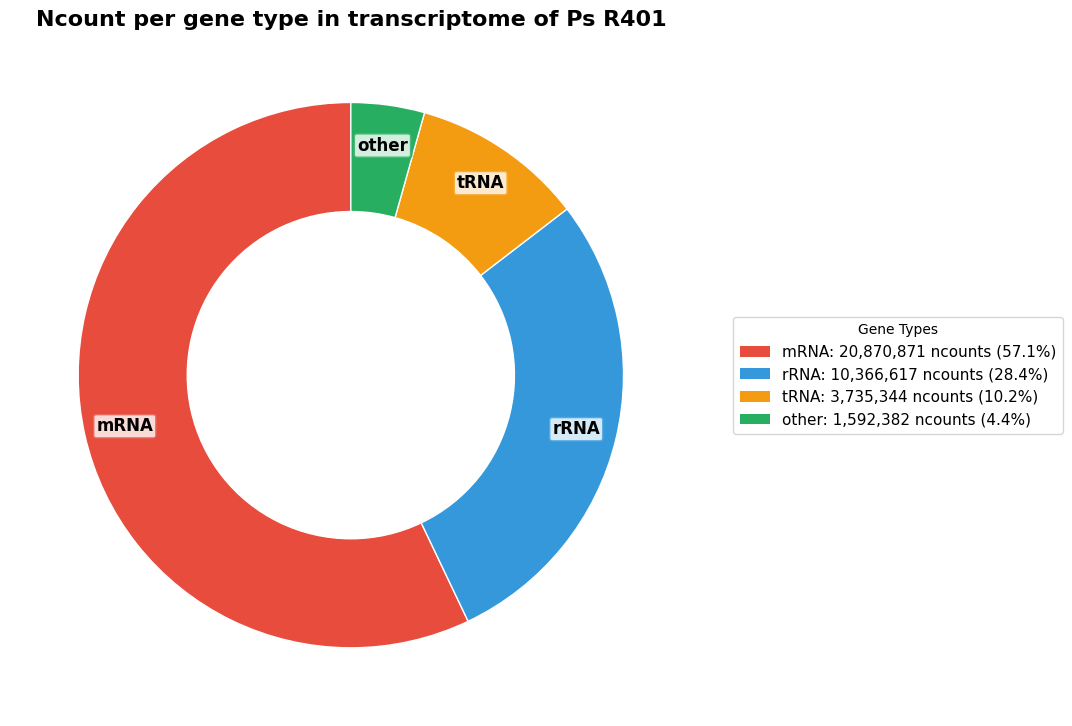
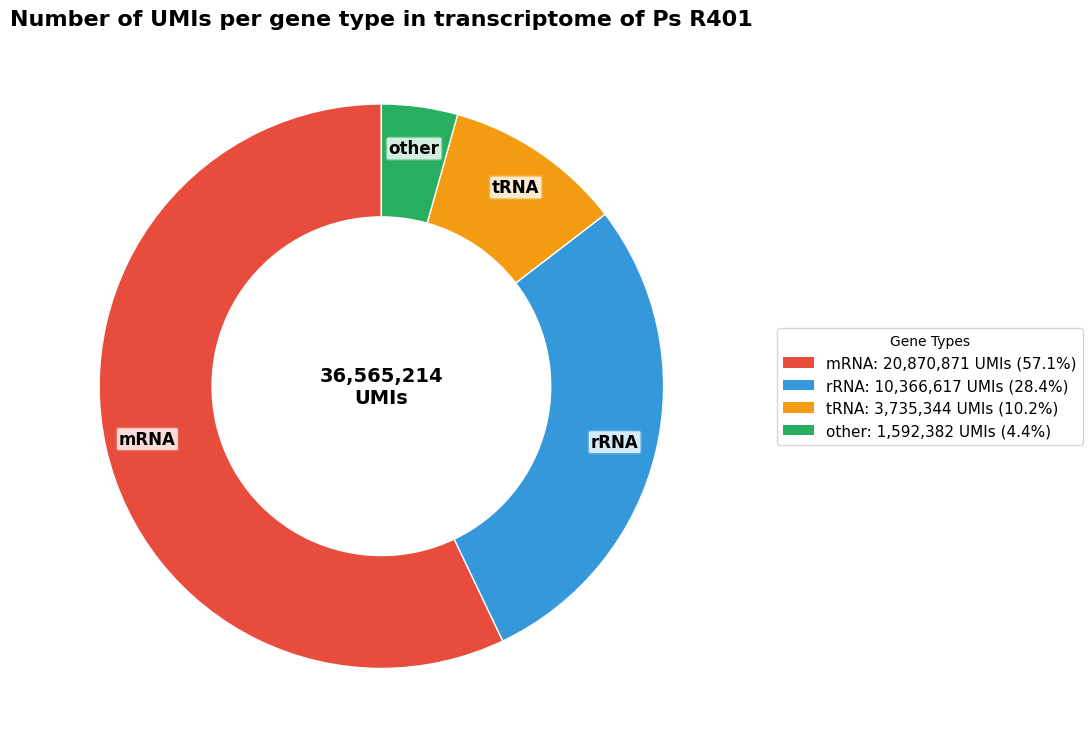
Update Materials and Methods and Results chapters with refined data quality metrics and analysis
- Corrected author citation in the doublet estimation section of the Materials and Methods chapter.
- Enhanced the Results chapter by clarifying the summary of STARsolo analysis metrics, including detailed descriptions of sequencing quality and gene mapping statistics.
- Improved the clarity of tables and figures to accurately reflect the updated metrics and findings, ensuring comprehensive representation of data quality and analysis outcomes.
- Added new insights regarding the implications of sequencing saturation and the necessity for deeper sequencing to capture the full complexity of the transcriptome.

diff --git a/docs/chapters/03-Results.html b/docs/chapters/03-Results.html
@@ -20,7 +20,27 @@ ul.task-list li input[type="checkbox"] {
   margin: 0 0.8em 0.2em -1em; /* quarto-specific, see https://github.com/quarto-dev/quarto-cli/issues/4556 */ 
   vertical-align: middle;
 }
-</style>
+/* CSS for citations */
+div.csl-bib-body { }
+div.csl-entry {
+  clear: both;
+  margin-bottom: 0em;
+}
+.hanging-indent div.csl-entry {
+  margin-left:2em;
+  text-indent:-2em;
+}
+div.csl-left-margin {
+  min-width:2em;
+  float:left;
+}
+div.csl-right-inline {
+  margin-left:2em;
+  padding-left:1em;
+}
+div.csl-indent {
+  margin-left: 2em;
+}</style>
 
 
 <script src="../site_libs/quarto-nav/quarto-nav.js"></script>
@@ -312,7 +332,7 @@ Figure&nbsp;3.1: Artifacts content of the sublibrary BC_0076 before and after tr
 <div id="tbl-summary-trimming" class="quarto-layout-panel anchored">
 <figure class="quarto-float quarto-float-tbl figure">
 <figcaption class="quarto-float-caption-top quarto-float-caption quarto-float-tbl" id="tbl-summary-trimming-caption-0ceaefa1-69ba-4598-a22c-09a6ac19f8ca">
-Table&nbsp;3.1: Summary of sequence metrics before and after trimming of each sublibrary with Cutadapt and Fastp
+Table&nbsp;3.1: Summary of sequence metrics before and after trimming of each sublibrary with Cutadapt and Fastp (R1 read length metrics)
 </figcaption>
 <div aria-describedby="tbl-summary-trimming-caption-0ceaefa1-69ba-4598-a22c-09a6ac19f8ca">
 <div class="quarto-layout-row">
@@ -452,92 +472,76 @@ Click to view MultiQC report R2 after trimming
 </details>
 </section>
 </section>
-<section id="starsolo-analysis-and-data-quality-assessment" class="level3">
-<h3 class="anchored" data-anchor-id="starsolo-analysis-and-data-quality-assessment">STARsolo Analysis and Data Quality Assessment</h3>
-<p>Our single-cell RNA-seq data was processed using STARsolo, which provided comprehensive quality metrics and mapping statistics. The analysis revealed excellent data quality suitable for investigating division of labor patterns in <em>P. brassicacearum</em> populations.</p>
-<section id="starsolo-analysis-results" class="level4">
-<h4 class="anchored" data-anchor-id="starsolo-analysis-results">STARsolo Analysis Results</h4>
+<section id="transcriptome-description-after-starsolo-processing" class="level3">
+<h3 class="anchored" data-anchor-id="transcriptome-description-after-starsolo-processing">Transcriptome Description after STARsolo processing</h3>
+<p>Following the successful preprocessing and trimming of our sequencing data, we performed alignment against the reference genome of <em>P. brassicacearum R401</em> (<a href="#fig-genome" class="quarto-xref">Figure&nbsp;<span>3.2 (a)</span></a>). The barcode reading and quantification by STARsolo provided comprehensive quality metrics and mapping statistics.</p>
 <div id="tbl-starsolo-comprehensive" class="quarto-layout-panel anchored">
 <figure class="quarto-float quarto-float-tbl figure">
 <figcaption class="quarto-float-caption-top quarto-float-caption quarto-float-tbl" id="tbl-starsolo-comprehensive-caption-0ceaefa1-69ba-4598-a22c-09a6ac19f8ca">
-Table&nbsp;3.2: Comprehensive STARsolo analysis results
+Table&nbsp;3.2: Summary of metrics obtained with STARsolo after barcode-UMI reading and alignment with the reference genome of <em>P. brassicacearum R401</em>
 </figcaption>
 <div aria-describedby="tbl-starsolo-comprehensive-caption-0ceaefa1-69ba-4598-a22c-09a6ac19f8ca">
 <div class="quarto-layout-row">
 <div class="quarto-layout-cell" style="flex-basis: 100.0%;justify-content: center;">
 <table class="caption-top table">
 <colgroup>
-<col style="width: 55%">
-<col style="width: 23%">
-<col style="width: 20%">
+<col style="width: 70%">
+<col style="width: 29%">
 </colgroup>
 <thead>
 <tr class="header">
 <th style="text-align: left;">Metric</th>
 <th style="text-align: left;">Count/Percentage</th>
-<th style="text-align: left;">Interpretation</th>
 </tr>
 </thead>
 <tbody>
 <tr class="odd">
 <td style="text-align: left;"><strong>Total Reads Processed</strong></td>
 <td style="text-align: left;">1,284,475,633</td>
-<td style="text-align: left;">High sequencing depth</td>
 </tr>
 <tr class="even">
-<td style="text-align: left;"><strong>Reads With Valid Barcodes</strong></td>
-<td style="text-align: left;">1,099,327,755</td>
-<td style="text-align: left;">85.58% of total reads</td>
+<td style="text-align: left;"><strong>N_reads with valid barcodes</strong></td>
+<td style="text-align: left;">1,099,327,755 (<strong>85.58%</strong>)</td>
 </tr>
 <tr class="odd">
 <td style="text-align: left;">- Exact Barcode Match</td>
-<td style="text-align: left;">1,046,121,284</td>
-<td style="text-align: left;">81.44%</td>
+<td style="text-align: left;">-&gt; 1,046,121,284 (<strong>81.44%</strong>)</td>
 </tr>
 <tr class="even">
 <td style="text-align: left;">- Single Mismatch Barcode</td>
-<td style="text-align: left;">53,206,471</td>
-<td style="text-align: left;">4.14%</td>
+<td style="text-align: left;">-&gt; 53,206,471 (<strong>4.14%</strong>)</td>
 </tr>
 <tr class="odd">
 <td style="text-align: left;"><strong>Q30 Bases in RNA reads</strong></td>
 <td style="text-align: left;">95.79%</td>
-<td style="text-align: left;">Outstanding sequencing quality</td>
 </tr>
 <tr class="even">
 <td style="text-align: left;"><strong>Q30 Bases in CB+UMI</strong></td>
 <td style="text-align: left;">95.51%</td>
-<td style="text-align: left;">High barcode/UMI quality</td>
 </tr>
 <tr class="odd">
-<td style="text-align: left;"><strong>GeneFull Mapping (Unique + Multiple)</strong></td>
-<td style="text-align: left;">971,519,404 (75.64%)</td>
-<td style="text-align: left;">Good gene-level coverage</td>
+<td style="text-align: left;"><strong>Unique Gene Mapping</strong></td>
+<td style="text-align: left;">34,593,349 (2.69%)</td>
 </tr>
 <tr class="even">
-<td style="text-align: left;"><strong>Unique GeneFull Mapping</strong></td>
-<td style="text-align: left;">34,593,349 (2.69%)</td>
-<td style="text-align: left;">Expected low rate due to overlapping genes</td>
+<td style="text-align: left;"><strong>Unique + Multiple Gene Mapping</strong></td>
+<td style="text-align: left;">971,519,404 (75.64%)</td>
 </tr>
 <tr class="odd">
-<td style="text-align: left;"><strong>Total GeneFull Detected</strong></td>
-<td style="text-align: left;">6,035</td>
-<td style="text-align: left;">Comprehensive gene coverage</td>
+<td style="text-align: left;"><strong>Total Genes Detected</strong></td>
+<td style="text-align: left;">6,035 on the total of 6,249 genes (96.57%)</td>
 </tr>
 <tr class="even">
 <td style="text-align: left;"><strong>Cell Barcodes Detected</strong></td>
 <td style="text-align: left;">699,355</td>
-<td style="text-align: left;">Total unique barcodes</td>
 </tr>
 <tr class="odd">
-<td style="text-align: left;"><strong>Total UMIs Detected</strong></td>
-<td style="text-align: left;">34,258,961</td>
-<td style="text-align: left;">Good molecular diversity</td>
+<td style="text-align: left;"><strong>N_umi</strong></td>
+<td style="text-align: left;">36,565,214</td>
 </tr>
 <tr class="even">
 <td style="text-align: left;"><strong>Sequencing Saturation</strong></td>
 <td style="text-align: left;">0.97%</td>
-<td style="text-align: left;">Very low - potential for deeper sequencing</td>
 </tr>
 </tbody>
 </table>
@@ -546,30 +550,32 @@ Table&nbsp;3.2: Comprehensive STARsolo analysis results
 </div>
 </figure>
 </div>
-<p><strong>Sequencing Saturation Explanation:</strong> Sequencing saturation measures how completely we have sampled the transcriptome. It is calculated as:</p>
-<pre><code>Saturation = 1 - (N_umi / N_reads)</code></pre>
-<p>where: - N_umi = number of unique CB/UMI/gene combinations - N_reads = number of reads with valid CB/UMI/gene</p>
-<p>A saturation of 0.97% indicates we could sequence much deeper to capture more unique molecules.</p>
-<p><strong>Note</strong>: The low unique mapping rates (3.64% to genome, 2.69% to genes) are typical for bacterial RNA-seq due to the compact nature of bacterial genomes with overlapping coding sequences. The high multiple mapping rate reflects the complexity of bacterial transcriptomes, which is particularly relevant for studying division of labor as it captures the full transcriptional landscape.</p>
-</section>
-<section id="data-quality-summary-for-division-of-labor-analysis" class="level4">
-<h4 class="anchored" data-anchor-id="data-quality-summary-for-division-of-labor-analysis">Data Quality Summary for Division of Labor Analysis</h4>
-<p>The STARsolo results provide strong evidence that our data is well-suited for investigating division of labor in <em>P. brassicacearum</em>:</p>
-<ol type="1">
-<li><strong>Comprehensive Gene Detection</strong>: 6,035 genes detected across all cells captures the full transcriptional diversity besoin de verif apres le nombre de genes detectés par cellules , nombre umi … mais avant doit filtrer les cellules</li>
-<li><strong>Excellent Technical Quality</strong>: &gt;95% Q30 scores and 85.58% valid barcodes indicate minimal technical noise</li>
-<li><strong>Robust Mapping</strong>: 75.64% of reads mapped to genes, providing comprehensive transcriptome coverage</li>
-</ol>
-<p>The low sequencing saturation (0.97%) suggests we could potentially sequence deeper to capture more unique molecules, but the current depth is sufficient for robust division of labor analysis. The high proportion of multiple-mapped reads is expected for bacterial data and actually beneficial for capturing the full complexity of overlapping transcriptional units that may be involved in division of labor processes.</p>
-</section>
-<section id="genefull-vs-gene-mapping-strategy" class="level4">
-<h4 class="anchored" data-anchor-id="genefull-vs-gene-mapping-strategy">GeneFull vs Gene Mapping Strategy</h4>
-<p>We employed the <strong>GeneFull mapping</strong> approach, which includes: - Coding sequences (CDS) - Untranslated regions (UTRs) - Non-coding RNAs - Intergenic regions</p>
-<p>This broader mapping strategy is particularly valuable for bacterial division of labor studies as it captures regulatory elements, non-coding RNAs, and intergenic regions that may play crucial roles in phenotypic differentiation and specialization within bacterial populations.</p>
-</section>
-</section>
-<section id="genome-and-transcriptome-description" class="level3">
-<h3 class="anchored" data-anchor-id="genome-and-transcriptome-description">Genome and Transcriptome Description</h3>
+<p><em>Metrics obtained with STARsolo after barcode-UMI reading and alignment with the reference genome of </em>P. brassicacearum R401<em>.</em></p>
+<p>The STARsolo analysis processed the 1.284 billion trimmed reads and successfully identified 1.099 billion reads with valid barcodes (85.58% of total reads), demonstrating excellent barcode quality (<a href="#tbl-starsolo-comprehensive" class="quarto-xref">Table&nbsp;<span>3.2</span></a>). Among these, 81.44% had exact barcode matches and 4.14% had single mismatches, indicating robust cell identification. The sequencing quality was outstanding with Q30 scores above 95% for both RNA reads and barcode/UMI sequences. This high percentage of valid barcodes falls within the expected range of 70-90% for successful experiments, as recommended by Gaisser et al.&nbsp;(2024) (<span class="citation" data-cites="gaisser2024"><sup><a href="06-References.html#ref-gaisser2024" role="doc-biblioref">1</a></sup></span>), indicating excellent library preparation and barcoding efficiency with no significant issues in the protocol optimization.</p>
+<p>Gene mapping analysis revealed that 75.64% of reads mapped to genes, with 2.69% showing unique mapping and the remainder showing multiple mapping, which is typical for bacterial genomes with overlapping genes and repeated sequences. The fraction of uniquely aligned reads (2.69%) falls within the expected range of 3-12% for bacterial samples (Gaisser et al.&nbsp;(<span class="citation" data-cites="gaisser2024"><sup><a href="06-References.html#ref-gaisser2024" role="doc-biblioref">1</a></sup></span>)). This value is influenced by the species-specific characteristics and experimental conditions.</p>
+<p>A total of 6,035 genes were detected across 699,355 unique cell barcodes, representing 96.6% of the 6,249 genes (<a href="#fig-genome" class="quarto-xref">Figure&nbsp;<span>3.2 (a)</span></a>) annotated in the <em>P. brassicacearum R401</em> genome, with one gene being automatically ignored by STARsolo due to poor annotation.</p>
+<p>The sequencing saturation, calculated as:</p>
+<p><span class="math display"> Sequencing\ Saturation = 1 - \frac{N_{\text{umi}}}{N_{\text{reads with valid barcodes}}} = 1 - \frac{36,565,214}{1,099,327,755} = 0.97\% </span></p>
+<ul>
+<li>Where:
+<ul>
+<li><span class="math inline">N_{\text{umi}}</span> = number of unique molecules detected, distinct combinations of Cell Barcode (CB) / UMI / gene</li>
+<li><span class="math inline">N_{\text{reads}}</span> = total number of reads with valid CB/UMI/gene combinations</li>
+</ul></li>
+</ul>
+<div class="callout callout-style-default callout-warning callout-titled">
+<div class="callout-header d-flex align-content-center">
+<div class="callout-icon-container">
+<i class="callout-icon"></i>
+</div>
+<div class="callout-title-container flex-fill">
+Warning
+</div>
+</div>
+<div class="callout-body-container callout-body">
+<p>This very low saturation indicates that we have captured only a small fraction of the total unique molecules in the transcriptome. According to Gaisser et al.&nbsp;(2024)<span class="citation" data-cites="gaisser2024"><sup><a href="06-References.html#ref-gaisser2024" role="doc-biblioref">1</a></sup></span>, a sequencing saturation of &lt;0.5 may indicate that more sequencing is required to capture all barcoded transcripts in the library, with a saturation value of ≥0.7 typically indicating sufficient coverage. Our saturation value of 0.97% falls well below these recommended thresholds, suggesting that <strong>our current sequencing depth may not be sufficient to capture the full complexity of the transcriptome</strong>. While the current sequencing depth of 1.284 billion reads provides substantial coverage, the low saturation indicates that we could potentially benefit from deeper sequencing to capture more unique transcripts and achieve better coverage of the transcriptional landscape.</p>
+</div>
+</div>
 <div id="fig-genome-transcriptome" class="quarto-layout-panel">
 <figure class="quarto-float quarto-float-fig figure">
 <div aria-describedby="fig-genome-transcriptome-caption-0ceaefa1-69ba-4598-a22c-09a6ac19f8ca">
@@ -601,11 +607,12 @@ Table&nbsp;3.2: Comprehensive STARsolo analysis results
 </div>
 </div>
 <figcaption class="quarto-float-caption-bottom quarto-float-caption quarto-float-fig" id="fig-genome-transcriptome-caption-0ceaefa1-69ba-4598-a22c-09a6ac19f8ca">
-Figure&nbsp;3.2: Genome and transcriptome description (obtained with fastqc)
+Figure&nbsp;3.2: Compositional analysis of <em>P. brassicacearum</em> R401 genome annotation and transcriptome distribution of different RNA types
 </figcaption>
 </figure>
 </div>
-<p>The genome and transcriptome composition analysis reveals the distribution of different RNA types in our <em>P. brassicacearum</em> samples. This information is crucial for understanding the transcriptional landscape and identifying potential division of labor patterns, as different RNA types may be differentially expressed across subpopulations.</p>
+<p>The genome and transcriptome composition analysis reveals the distribution of different RNA types in our <em>P. brassicacearum</em> sample. In the <a href="https://www.ncbi.nlm.nih.gov/datasets/gene/GCA_030064105.1/">annotated</a> genome of <em>P. brassicacearum</em> R401, we identified 6,100 mRNA genes (97.6% of total genes), 65 tRNA genes, 16 rRNA genes (0.3% of the genome) and 68 other genes. However, in the transcriptome analysis of our 36,565,214 UMIs, the distribution shows a different pattern: 57.1% correspond to mRNA transcripts (21 millions), while 28.4% are rRNA transcripts (representing approximately 10 millions UMIs), 10.2 % are tRNA transcripts (representing approximately 4 millions UMIs) and 4.4% are other genes (representing approximately 1.5 millions UMIs). This distribution concords with the well-established observation that rRNA and tRNA transcripts represent a large proportion of the bacterial transcriptome despite constituting only a small fraction of the genome, due to their high transcriptional activity and stability<span class="citation" data-cites="nishimura2025"><sup><a href="06-References.html#ref-nishimura2025" role="doc-biblioref">2</a></sup></span>.</p>
+<p>Before filtering, our dataset contained 699,355 unique cell barcodes, which is consistent with the expected large number of barcode combinations (&gt;800,000) that typically contain only a small number of transcripts. These likely represent trace amounts of barcode contamination present throughout the protocol, including potentially within the source oligonucleotide plates. These contaminating barcodes can be effectively filtered using barcode-rank or knee plot analysis, which we applied in our filtering strategy.</p>
 </section>
 <section id="cell-filtering-strategy" class="level3">
 <h3 class="anchored" data-anchor-id="cell-filtering-strategy">Cell Filtering Strategy</h3>
@@ -733,8 +740,24 @@ Table&nbsp;3.3: Cell-level expression metrics
 <p>In addition, we kept the highest-scored multimapping reads, assigning a fractional count based on the number of equally good alignments, because bacterial genomes are known to contain overlapping coding sequences. We then generated a matrix of gene counts for each cell (N-by-K matrix, with N cells and K genes).</p>
 <p>le choix de filtration sera discuté apres</p>
 <p>because the reads depth is different between : Stress condition (M9F) and non-stress condition (M9) et also between the 3 timepoints (T1, T2, T3) (voir figure, reuslttas comme deja observé chez )</p>
+<p>, which typically corresponds to the mRNA proportion in the library</p>
+<p>attention duplication des reads</p>
+<p>serait bien de tester chaque sublirbai starsolo independant</p>
+<p>The low saturation may be partially explained by the high complexity of the bacterial transcriptome and the large number of unique cell barcode combinations detected (699,355).</p>
+<p>Our results align well with the expected performance metrics for single-cell RNA-seq in bacteria.</p>
+<p>It is important to note that preliminary STARsolo tests without trimming yielded saturation values 0.94 <strong>&gt; 0.7</strong>, which would have met the Gaisser et al.&nbsp;(<span class="citation" data-cites="gaisser2024"><sup><a href="06-References.html#ref-gaisser2024" role="doc-biblioref">1</a></sup></span>) recommendation for adequate sequencing depth. However, these elevated saturation values were not due to superior sequencing quality but rather to less effectively trimmed reads that artificially affected the saturation ratio. The lower saturation observed in our final analysis with proper trimming (0.0097) actually reflects more accurate data quality assessment, as the trimming process removed sequencing artifacts and low-quality reads that would have otherwise inflated the saturation metric. This observation suggests that the interpretation of saturation values in the Gaisser et al.(<span class="citation" data-cites="gaisser2024"><sup><a href="06-References.html#ref-gaisser2024" role="doc-biblioref">1</a></sup></span>) study may need revision, as their trimming protocol reportedly left approximately 10% of TSO sequences remaining, which could have artificially inflated their saturation metrics. While our saturation value of 0.97% falls well below their recommended threshold of &gt;0.7, this difference likely reflects the superior quality of our trimming protocol rather than inadequate sequencing depth. The low saturation value (0.97%) indicates minimal redundancy in our sequencing data, suggesting that a substantial portion of the transcriptome remains unexplored. This implies that deeper sequencing could potentially capture additional unique transcripts and provide more comprehensive coverage of the transcriptional landscape.</p>
+<p>peut etre devoir verifier les 4 biblioteques pour comprendre les differences de duplication et voir si differences de satureation</p>
+<p>For our division of labor analysis focusing on mRNA expression patterns, these highly abundant non-coding RNAs will need to be filtered out to avoid masking subtle transcriptional differences between subpopulations. This information is crucial for understanding the transcriptional landscape and identifying potential division of labor patterns, as different RNA types may be differentially expressed across subpopulations.</p>
 
 
+<div id="refs" class="references csl-bib-body" data-entry-spacing="0" data-line-spacing="2" role="list" style="display: none">
+<div id="ref-gaisser2024" class="csl-entry" role="listitem">
+<div class="csl-left-margin">1. </div><div class="csl-right-inline">Gaisser, K. D. <em>et al.</em> <a href="https://doi.org/10.1038/s41596-024-01007-w">High-throughput single-cell transcriptomics of bacteria using combinatorial barcoding</a>. <em>Nature Protocols</em> <strong>19</strong>, 3048–3084 (2024).</div>
+</div>
+<div id="ref-nishimura2025" class="csl-entry" role="listitem">
+<div class="csl-left-margin">2. </div><div class="csl-right-inline">Nishimura, M., Takahashi, K. &amp; Hosokawa, M. Recent advances in single-cell RNA sequencing of bacteria: Techniques, challenges, and applications. <em>Journal of Bioscience and Bioengineering</em> (2025) doi:<a href="https://doi.org/10.1016/j.jbiosc.2025.01.008">10.1016/j.jbiosc.2025.01.008</a>.</div>
+</div>
+</div>
 </section>
 
 </main> <!-- /main -->

diff --git a/docs/chapters/02-Materials-and-methods.html b/docs/chapters/02-Materials-and-methods.html
@@ -523,6 +523,8 @@ Warning
 </div>
 </div>
 <p>-retiré un replica tech aussi (voir annexe ) au total on conserve : x cellules , avec x genes</p>
+<p>Single-cell analysis filtering, log-normalized by … counts per cell, and scaled to unit variance and zero mean. Normalized expression data was dimensionally reduced using principal component analysis (PCA). Shared neighbor graphs and uniform manifold approximation representations (UMAP(71)) were calculated with the first 12 principal components. All subsequent calculations were run in Python using Scanpy(72) documentation for single-cell analysis.</p>
+<p>Differential gene expression analysis Scanpy gene ranking functions (sc.tl.rank_genes_groups and sc.get.rank_genes_groups_df) were used to analyze and retrieve statistical data between two groups of interest within the annotated data object. The output parameters included names of all genes, z-score, log fold change, p-values, and adjusted p-values.</p>
 
 
 <div id="refs" class="references csl-bib-body" data-entry-spacing="0" data-line-spacing="2" role="list" style="display: none">

diff --git a/docs/chapters/B-Appendix.html b/docs/chapters/B-Appendix.html
@@ -419,6 +419,7 @@ ul.task-list li input[type="checkbox"] {
                                   nMatchUnique        3820029
                                  nCellBarcodes         135433
                                          nUMIs         224743</code></pre>
+<p>248001599.933</p>
 <p>Number of Reads,325495590 Reads With Valid Barcodes,0.76192 Sequencing Saturation,0.941167 Q30 Bases in CB+UMI,0.922758 Q30 Bases in RNA read,0.861863 Reads Mapped to Genome: Unique+Multiple,0.581583 Reads Mapped to Genome: Unique,0.0215405 Reads Mapped to Gene: Unique+Multipe Gene,0.46505 Reads Mapped to Gene: Unique Gene,0.011736 Estimated Number of Cells,47264 Unique Reads in Cells Mapped to Gene,2582244 Fraction of Unique Reads in Cells,0.675975 Mean Reads per Cell,54 Median Reads per Cell,40 UMIs in Cells,136574 Mean UMI per Cell,2 Median UMI per Cell,2 Mean Gene per Cell,2 Median Gene per Cell,2 Total Gene Detected,4838</p>
 
 
